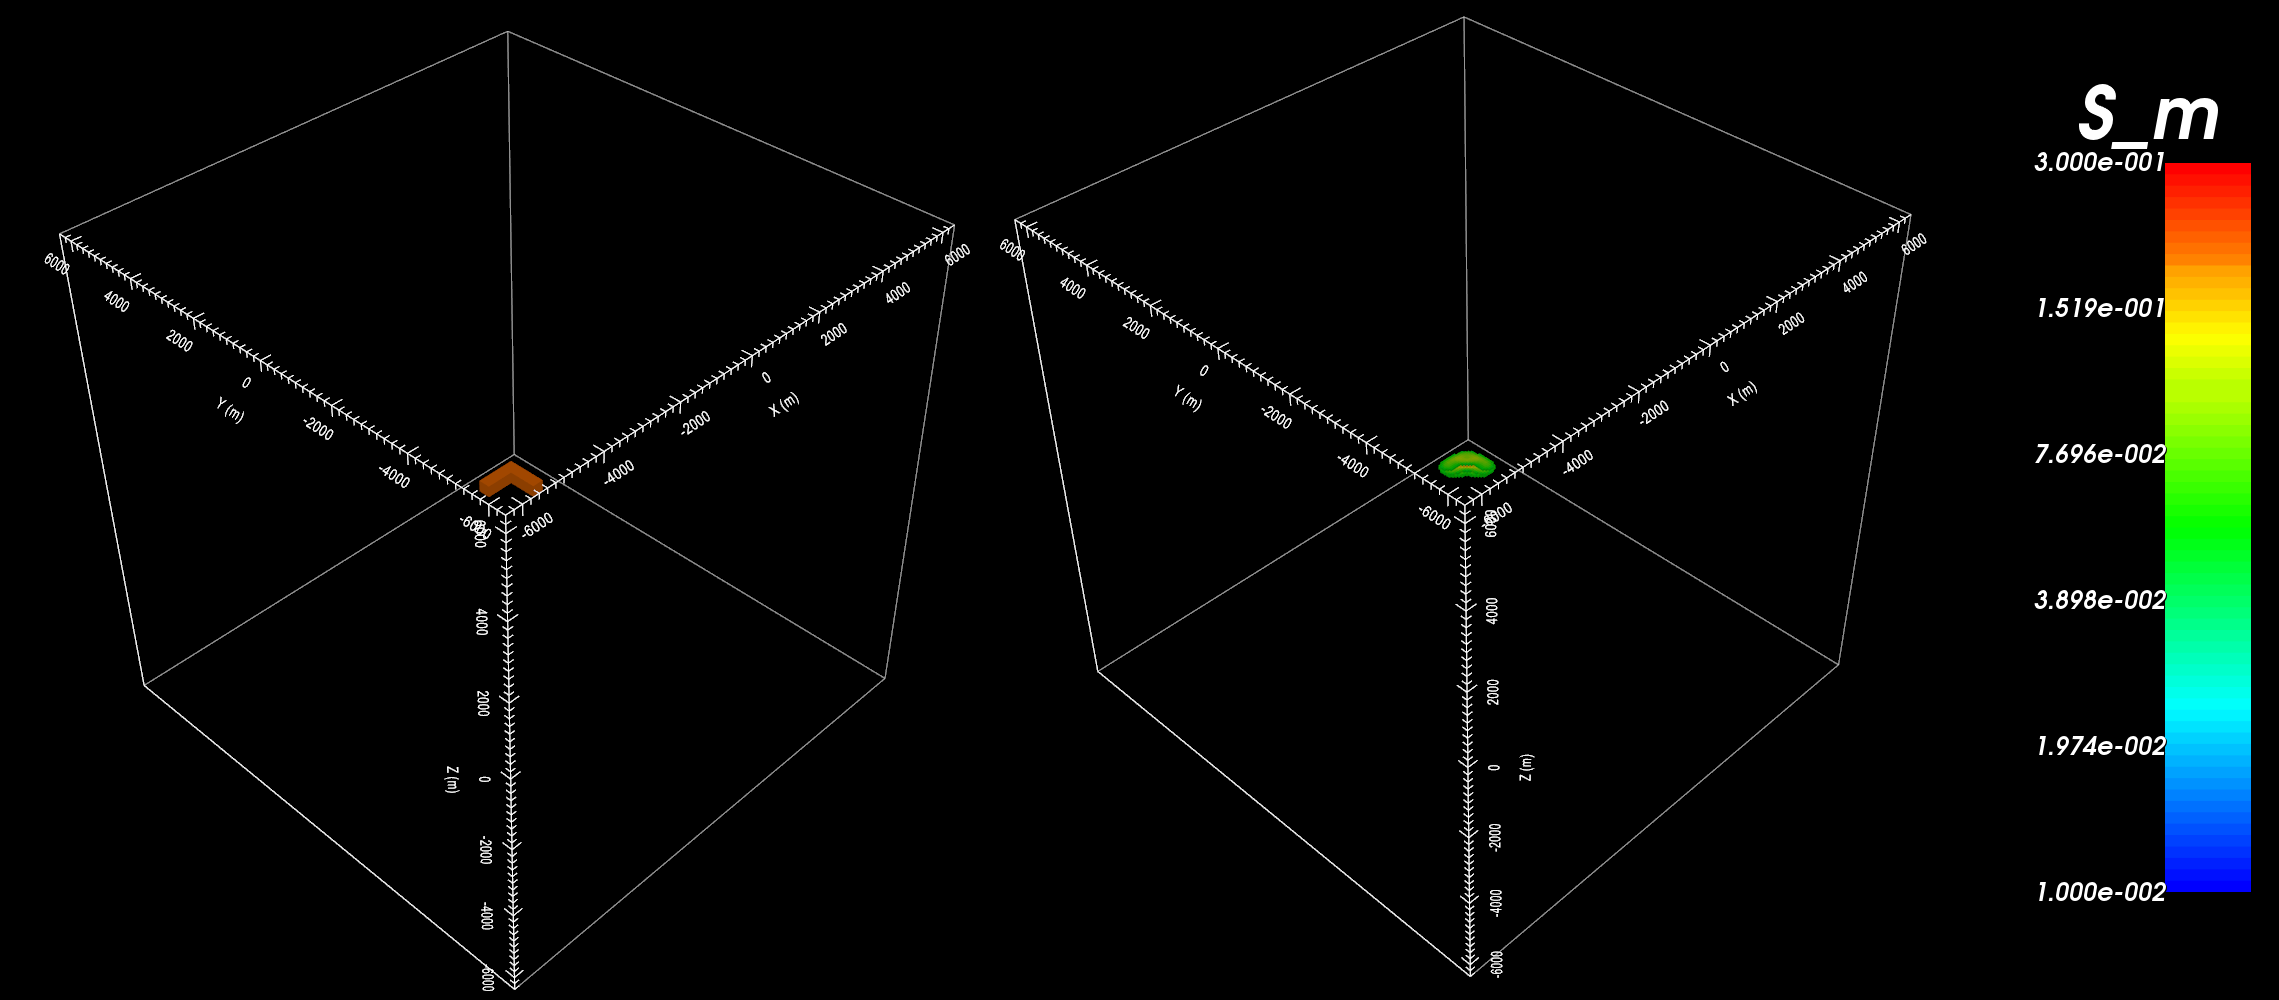
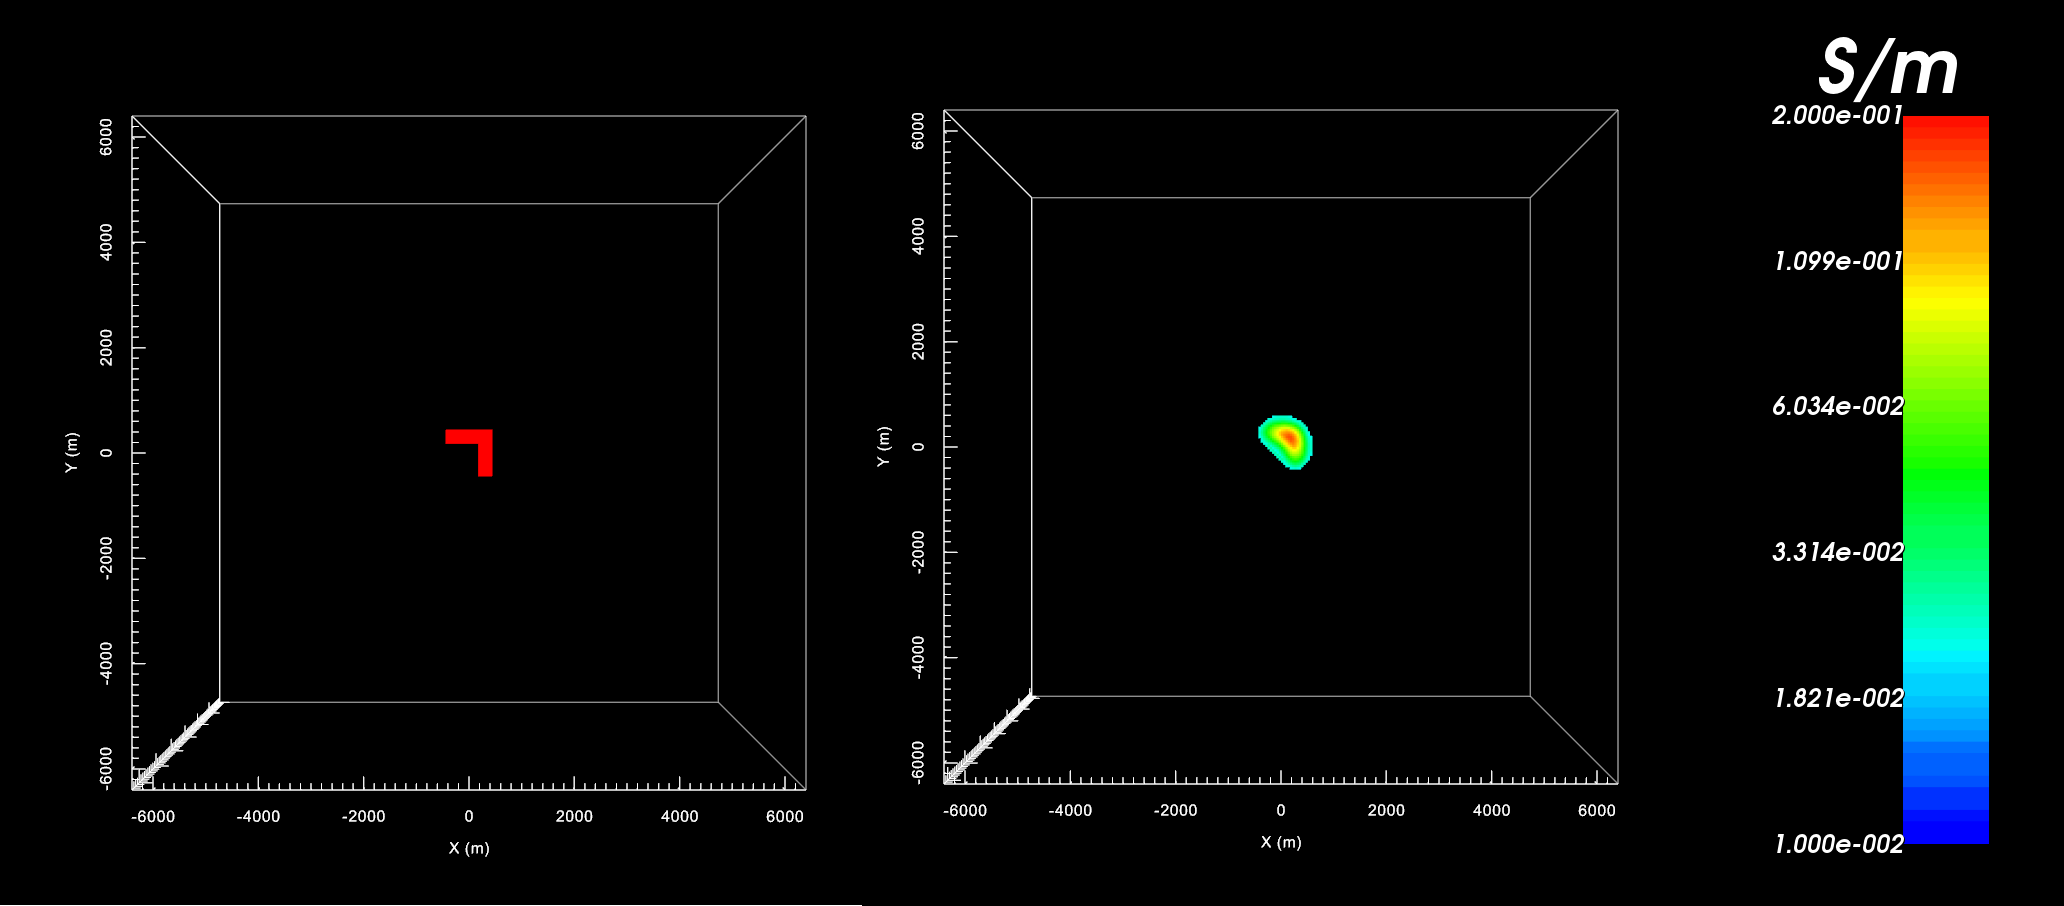
update inversion section

diff --git a/content/example/inv.rst b/content/example/inv.rst
@@ -3,7 +3,7 @@
 Inversion
 =========
 
-Here, the code **e3dinv_ver2.exe** and the input file **e3dinv.inp** (:ref:`see format <e3d_input_inv>`) are used to invert Hz data. FEM data were created in the example ":ref:`forward modeling<example_fwd>`". Basic uncertainties were added for the sake of keeping the example simple. In practice, data are noisy and choosing appropriate uncertainties is very important for successful inversion. Files relevant to this part of the example are in the sub-folder *inv*. Before running this example, you may want to do the following:
+Here, the code **e3dinv_ver2.exe** and the input file **e3dinv.inp** (:ref:`see format <e3d_input_inv>`) are used to invert Hz data. FEM data were created in the example ":ref:`forward modeling<example_fwd>`". To create uncertainties, we forward modeled the data for a vacuum (primary field) then subtracted the primary field from the observed data to obtain the secondary field. :math:`10^{-9} \; H/m \; \pm 5\%` of the secondary field was used as the uncertainties. In practice, data are noisy and choosing appropriate uncertainties is very important for successful inversion. Files relevant to this part of the example are in the sub-folder *inv*. Before running this example, you may want to do the following:
 
 	- `Download and open the zip folder containing the entire E3D version 2 example <https://github.com/ubcgif/E3D/raw/e3dinv_ver2/assets/E3D_manual_ver2.zip>`__ (if not done already)
 	- :ref:`Learn how to run code from command line <e3d_inv>`
@@ -16,7 +16,7 @@ To invert the synthetic data, the input file below was used:
      :width: 700
 
 
-The true model (left) and recovered model (right) at iteration 4 are shown below. A cutoff of 0.05 S/m has been used for both models. We should note some things about the inversion:
+The true model (left) and final recovered model (right) are shown below. A cutoff of 0.0225 S/m has been used for both models. We should note some things about the inversion:
 
 	- We inverted data at only two frequencies (25 Hz and 2500 Hz)
 	- We only inverted the vertical component of the total magnetic field
@@ -24,7 +24,7 @@ The true model (left) and recovered model (right) at iteration 4 are shown below
 
 The inversion places a conductive body in the appropriate location and is able to resolve the surface of the conductor. Given the minimal number of frequencies and field components being inverted in the example, the data were still able to resolve the shape of the conductor to a reasonable degree. For this case however, the inversion does not locate the bottom of the conductor.
 
-.. .. figure:: images/inv2.png
-..      :align: center
-..      :width: 700
+.. figure:: images/inv2.png
+     :align: center
+     :width: 700
 
